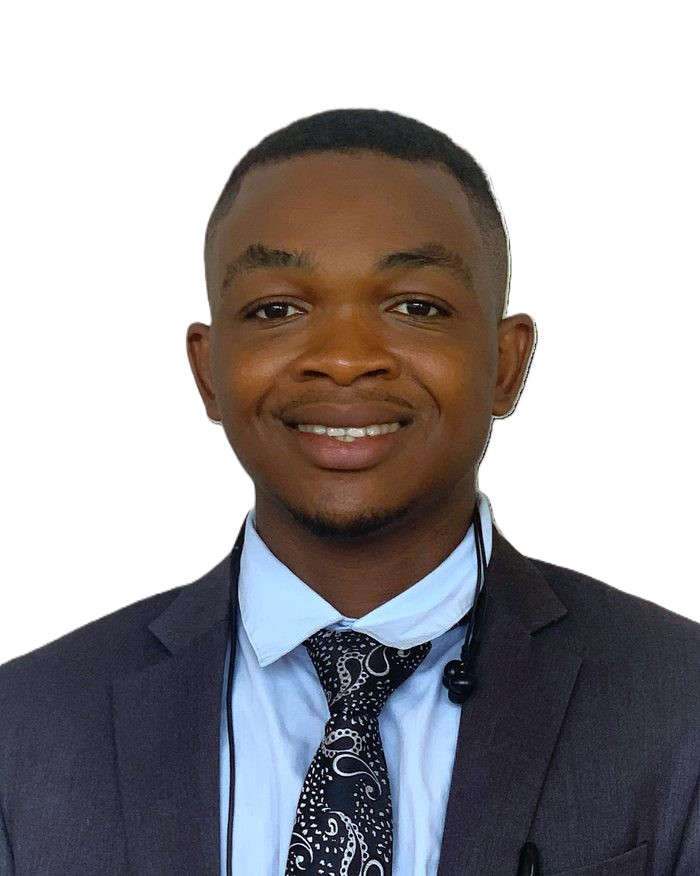
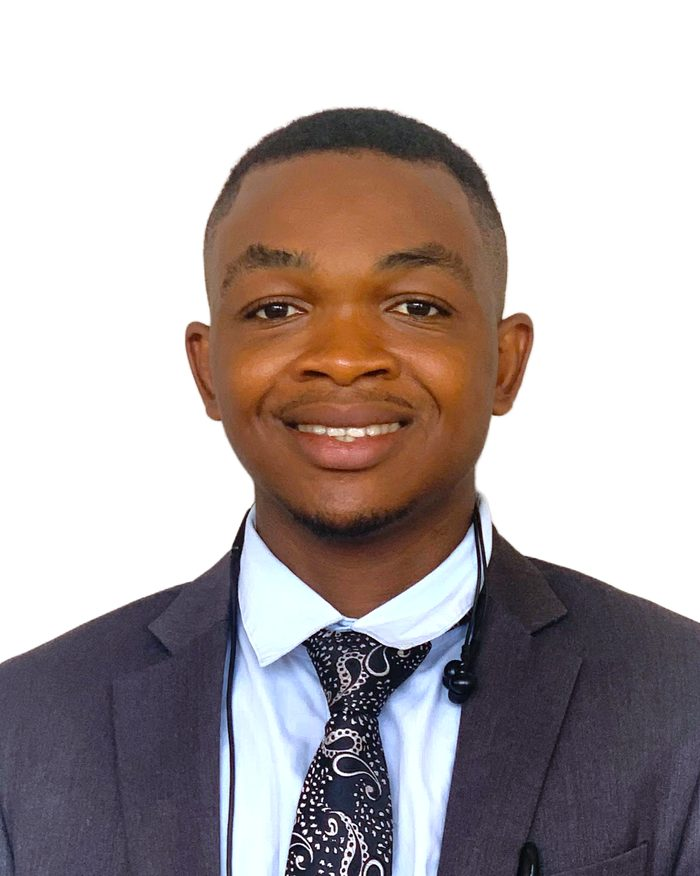
fix: management_regularize designations (MD, SPA/DFA, Head of..., Secretary Enugu East-Zone), Godfrey white bg png, add new terminal assets

diff --git a/src/data/management.js b/src/data/management.js
@@ -9,7 +9,7 @@ import johnEgbo from "../assets/managemrnt_team_images/John_N_Egbo.jpg";
 import amechiNkwuo from "../assets/managemrnt_team_images/Mr_Amechi_Nkwuo_Head_of_Enforcement_department.jpg";
 import callistusOrji from "../assets/managemrnt_team_images/Mr._Callistus_orji-ogbu_Terminal_1_manager.jpg";
 import chidiebereEmeh from "../assets/managemrnt_team_images/Mr._Chidiebere_Francis_Emeh_Secretary_EEBT.jpg";
-import godfreyAkpugo from "../assets/managemrnt_team_images/Mr._Godfrey_Somtochukwu_Akpugo_Secretary_EEBT.jpg";
+import godfreyAkpugo from "../assets/managemrnt_team_images/Mr._Godfrey_Somtochukwu_Akpugo_Secretary_EEBT.png";
 import ikechukwuEdeh from "../assets/managemrnt_team_images/Mr._Ikechukwu_Edeh_HOD_Environment.jpg";
 import josephOkenwa from "../assets/managemrnt_team_images/Mr._Joseph_Nkwuo_Okenwa_Manager_terminal_2.jpg";
 import onyiaDaniel from "../assets/managemrnt_team_images/secretary_enforcement_team_Mr._Onyia_Daniel.jpg";
@@ -18,7 +18,7 @@ export const managementTeam = [
   {
     id: "hon-john-egbo",
     name: "Hon. Dr. John N. Egbo",
-    designation: "former Deputy Sheriff in the US, former commissioner of environment, transport and capital territory",
+    designation: "Managing Director",
     rawDesignation: "former Deputy Sheriff in the US_former commissioner of environment_transport_and_capital territory",
     image: johnEgbo,
     category: "md",
@@ -27,7 +27,7 @@ export const managementTeam = [
   {
     id: "jude-okolo",
     name: "Dr. Jude Okolo",
-    designation: "SPA to the managing Director",
+    designation: "SPA to the Managing Director",
     rawDesignation: "SPA to the managing Director",
     image: judeOkolo,
     category: "spa",
@@ -36,7 +36,7 @@ export const managementTeam = [
   {
     id: "obiageli-onyia",
     name: "Dr. Obiageli P. Onyia",
-    designation: "Director Finance and accounts",
+    designation: "Director, Finance and Accounts",
     rawDesignation: "Director Finance and accounts",
     image: obiageliOnyia,
     category: "dfa",
@@ -45,7 +45,7 @@ export const managementTeam = [
   {
     id: "callistus-orji",
     name: "Mr. Callistus Orji-ogbu",
-    designation: "Holy Ghost Bus Terminal 1 manager",
+    designation: "Manager, Holy Ghost Bus Terminal 1",
     rawDesignation: "Holy Ghost Bus Terminal 1 manager",
     image: callistusOrji,
     category: "terminal-managers",
@@ -54,7 +54,7 @@ export const managementTeam = [
   {
     id: "joseph-okenwa",
     name: "Mr. Nkwuo Joseph Okenwa",
-    designation: "Manager Holy Ghost Bus Terminal 2",
+    designation: "Manager, Holy Ghost Bus Terminal 2",
     rawDesignation: "Manager Holy Ghost Bus Terminal 2",
     image: josephOkenwa,
     category: "terminal-managers",
@@ -63,7 +63,7 @@ export const managementTeam = [
   {
     id: "ugwuike-ifeanyi",
     name: "Mr. Ugwuike Ifeanyi",
-    designation: "Abakpa terminal manager",
+    designation: "Manager, Abakpa Terminal",
     rawDesignation: "Abakpa terminal manager",
     image: abakpaManager,
     category: "terminal-managers",
@@ -72,7 +72,7 @@ export const managementTeam = [
   {
     id: "chidiebere-emeh",
     name: "Mr. Chidiebere Francis Emeh",
-    designation: "Secretary EEBT",
+    designation: "Secretary, Enugu East-Zone Bus Terminals",
     rawDesignation: "Secretary EEBT",
     image: chidiebereEmeh,
     category: "eebt-secretaries",
@@ -81,7 +81,7 @@ export const managementTeam = [
   {
     id: "godfrey-akpugo",
     name: "Mr. Godfrey Somtochukwu Akpugo",
-    designation: "Secretary EEBT",
+    designation: "Secretary, Enugu East-Zone Bus Terminals",
     rawDesignation: "Secretary EEBT",
     image: godfreyAkpugo,
     category: "eebt-secretaries",
@@ -90,7 +90,7 @@ export const managementTeam = [
   {
     id: "ikechukwu-edeh",
     name: "Mr. Ikechukwu Edeh",
-    designation: "HOD Environment",
+    designation: "Head of Environment",
     rawDesignation: "HOD Environment",
     image: ikechukwuEdeh,
     category: "department-heads",
@@ -99,7 +99,7 @@ export const managementTeam = [
   {
     id: "amechi-nkwuo",
     name: "Mr. Amechi Nkwuo",
-    designation: "Head of Enforcement department",
+    designation: "Head of Enforcement",
     rawDesignation: "Head of Enforcement department",
     image: amechiNkwuo,
     category: "security-heads",
@@ -108,7 +108,7 @@ export const managementTeam = [
   {
     id: "onyia-daniel",
     name: "Mr. Onyia Daniel",
-    designation: "Secretary Enforcement Team",
+    designation: "Secretary, Enforcement Team",
     rawDesignation: "secretary enforcement team",
     image: onyiaDaniel,
     category: "department-secretaries",
